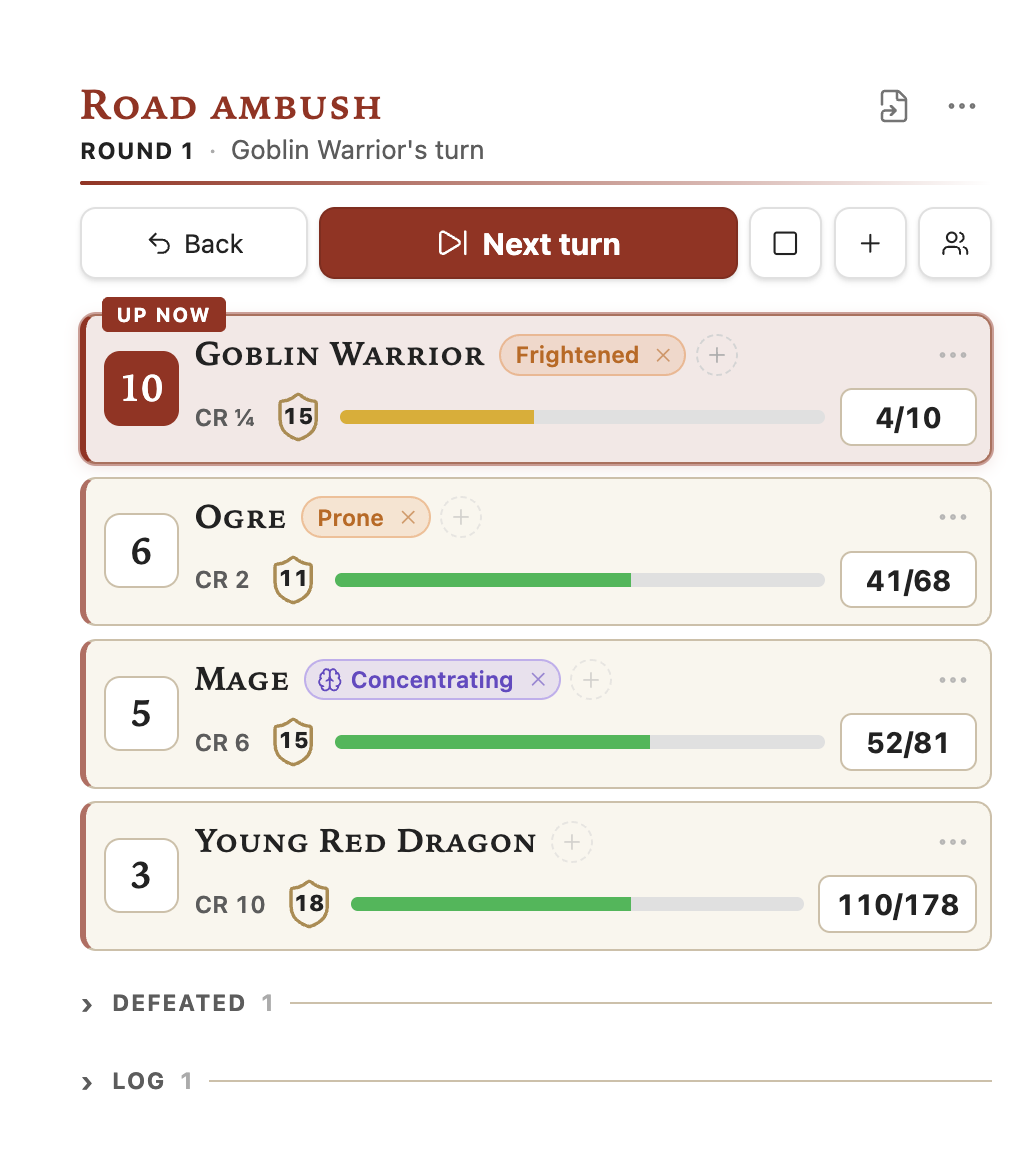
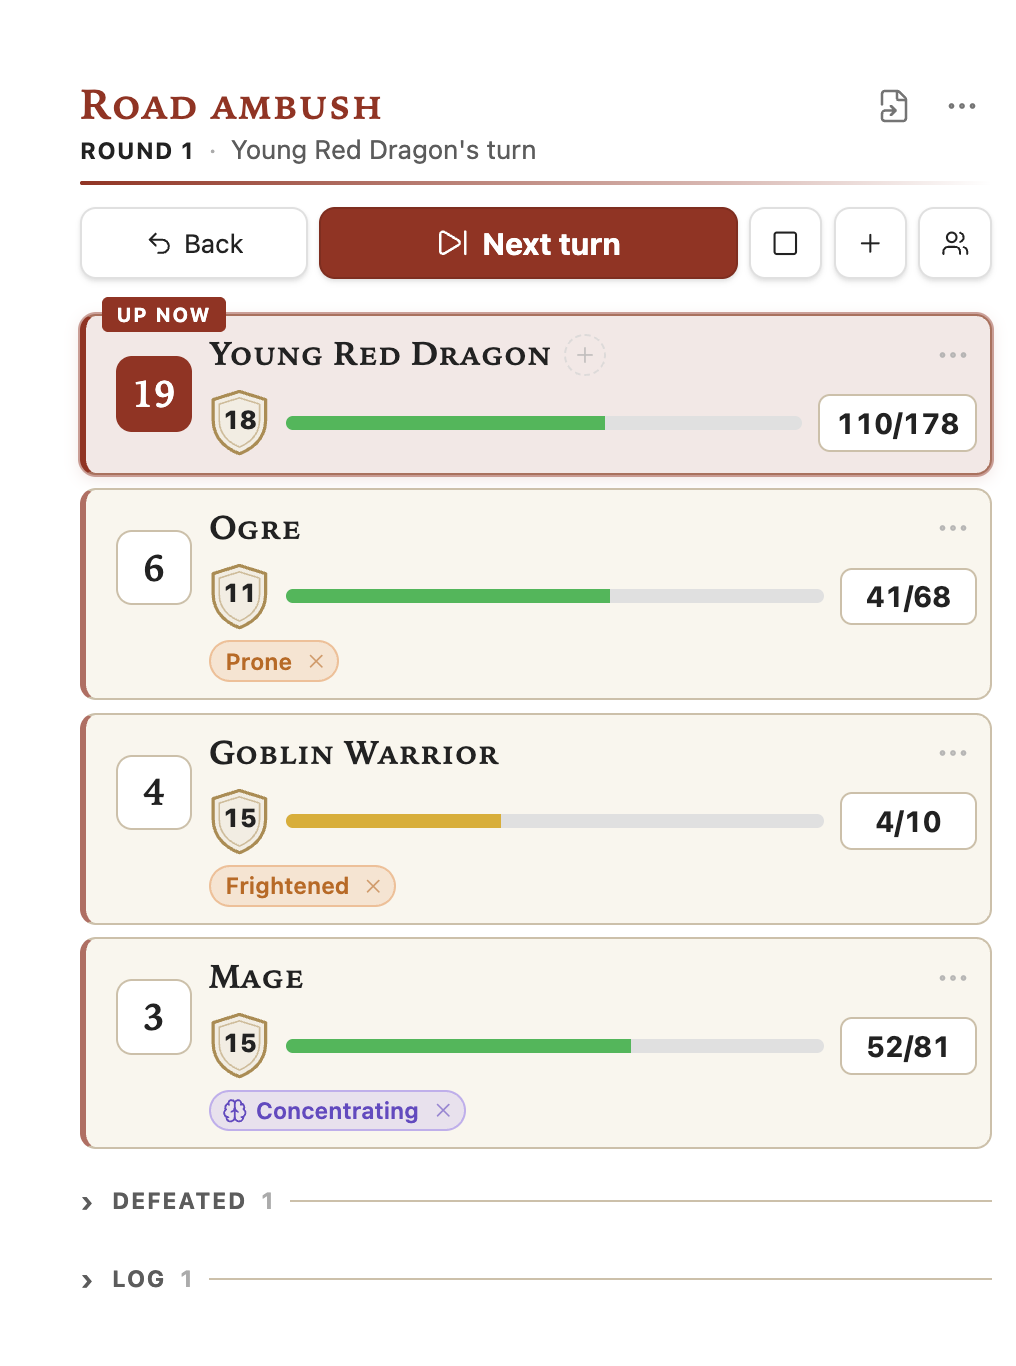
🖼 Landing page: timed conditions tile; the 5e tracker shot shows the new rows

Changed region(s): [[0.061, 0.0616, 0.9764, 0.6781], [0.061, 0.7089, 0.9764, 0.9555], [0.2136, 0.9247, 0.9764, 0.9555]]

diff --git a/site/index.html b/site/index.html
@@ -329,7 +329,11 @@ area: Q6
 					</article>
 					<article class="tile tile-img reveal">
 						<figure class="frame"><div class="win"><div class="win-bar" aria-hidden="true"><span></span><span></span><span></span><b>5e combat</b></div><img src="images/feature-5e-tracker.png" alt="The 5e combat tracker mid-fight: initiative rows, the current turn marked Up now, conditions and concentration" loading="lazy"></div></figure>
-						<div class="tile-copy"><span class="new-tag"><span class="t">New</span></span><h3><a href="docs/5e.html#the-5e-combat-tracker">An initiative tracker that fits the fight</a></h3><p>One row per creature, the current turn up front, concentration, death saves and legendary actions as pips.</p></div>
+						<div class="tile-copy"><span class="new-tag"><span class="t">New</span></span><h3><a href="docs/5e.html#the-5e-combat-tracker">An initiative tracker that fits the fight</a></h3><p>One row per creature in turn order; drag to change it. The current turn up front, concentration, death saves and legendary actions as pips.</p></div>
+					</article>
+					<article class="tile tile-img reveal">
+						<figure class="frame"><div class="win"><div class="win-bar" aria-hidden="true"><span></span><span></span><span></span><b>Next turn</b></div><img src="images/feature-conditions.png" alt="At the turn change, the tracker asks for the Mage's Wisdom save against Hold Person and rolls 1d4 Fire damage for the burning Ogre" loading="lazy"></div></figure>
+						<div class="tile-copy"><span class="new-tag"><span class="t">New</span></span><h3><a href="docs/tracker.html#timed-statuses">Conditions that keep time</a></h3><p>A condition can last some rounds, end on a save, or burn each turn. The tracker asks when it's time. Make your own on the spot.</p></div>
 					</article>
 					<article class="tile tile-img reveal">
 						<figure class="frame"><div class="win"><div class="win-bar" aria-hidden="true"><span></span><span></span><span></span><b>Import content</b></div><img src="images/feature-content-packs.png" alt="Import content with a pack pasted in: five entries, a subclass, a spell, an item, a feat and a monster" loading="lazy"></div></figure>
